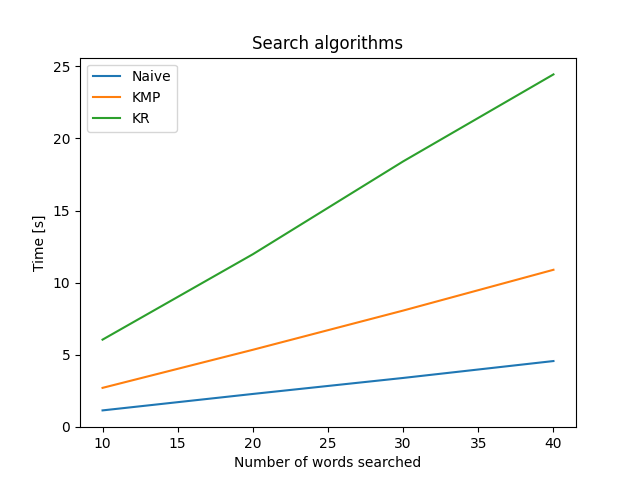
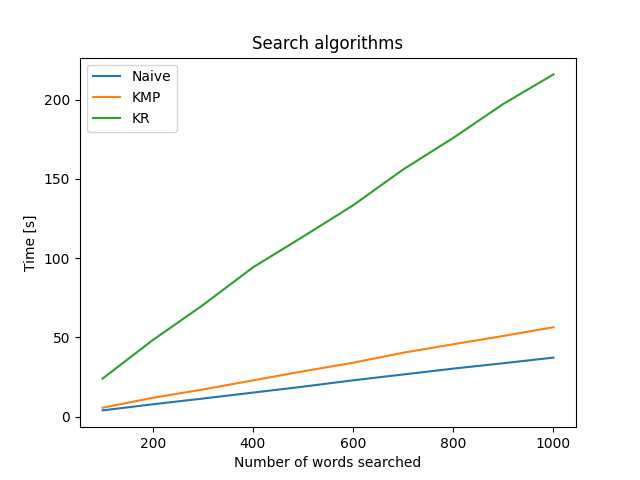
min lenght 2 for word

diff --git a/file.py b/file.py
@@ -15,9 +15,13 @@ def load_file(path, n):
     data = unidecode.unidecode(data)
 
     if n == -1:
-        return data
+        list_of_words = re.split("[^a-z]+", data)
+        list_of_words = ' '.join([word for word in list_of_words if len(word) > 2])
+
     if n > 0:
         list_of_words = re.split("[^a-z]+", data, n)
         list_of_words.pop()  # we delete rest of words that we do not need
+        list_of_words = [word for word in list_of_words if len(word) > 2]
+
 
     return list_of_words

diff --git a/main.py b/main.py
@@ -6,13 +6,14 @@ def main():
     times_N = []
     times_KR = []
 
-    number_of_words = list(range(10, 50, 10))
+    number_of_words = list(range(100, 1100, 100))
     path = "pan-tadeusz.txt"
     all_words = file.load_file(path, -1)
+    #print(all_words)
     for num in number_of_words:
         print(num)
         words = file.load_file(path, num)
-
+        #print(words)
         start = time.process_time()
         for word in words:
             KMP.find_kmp(word, all_words)
